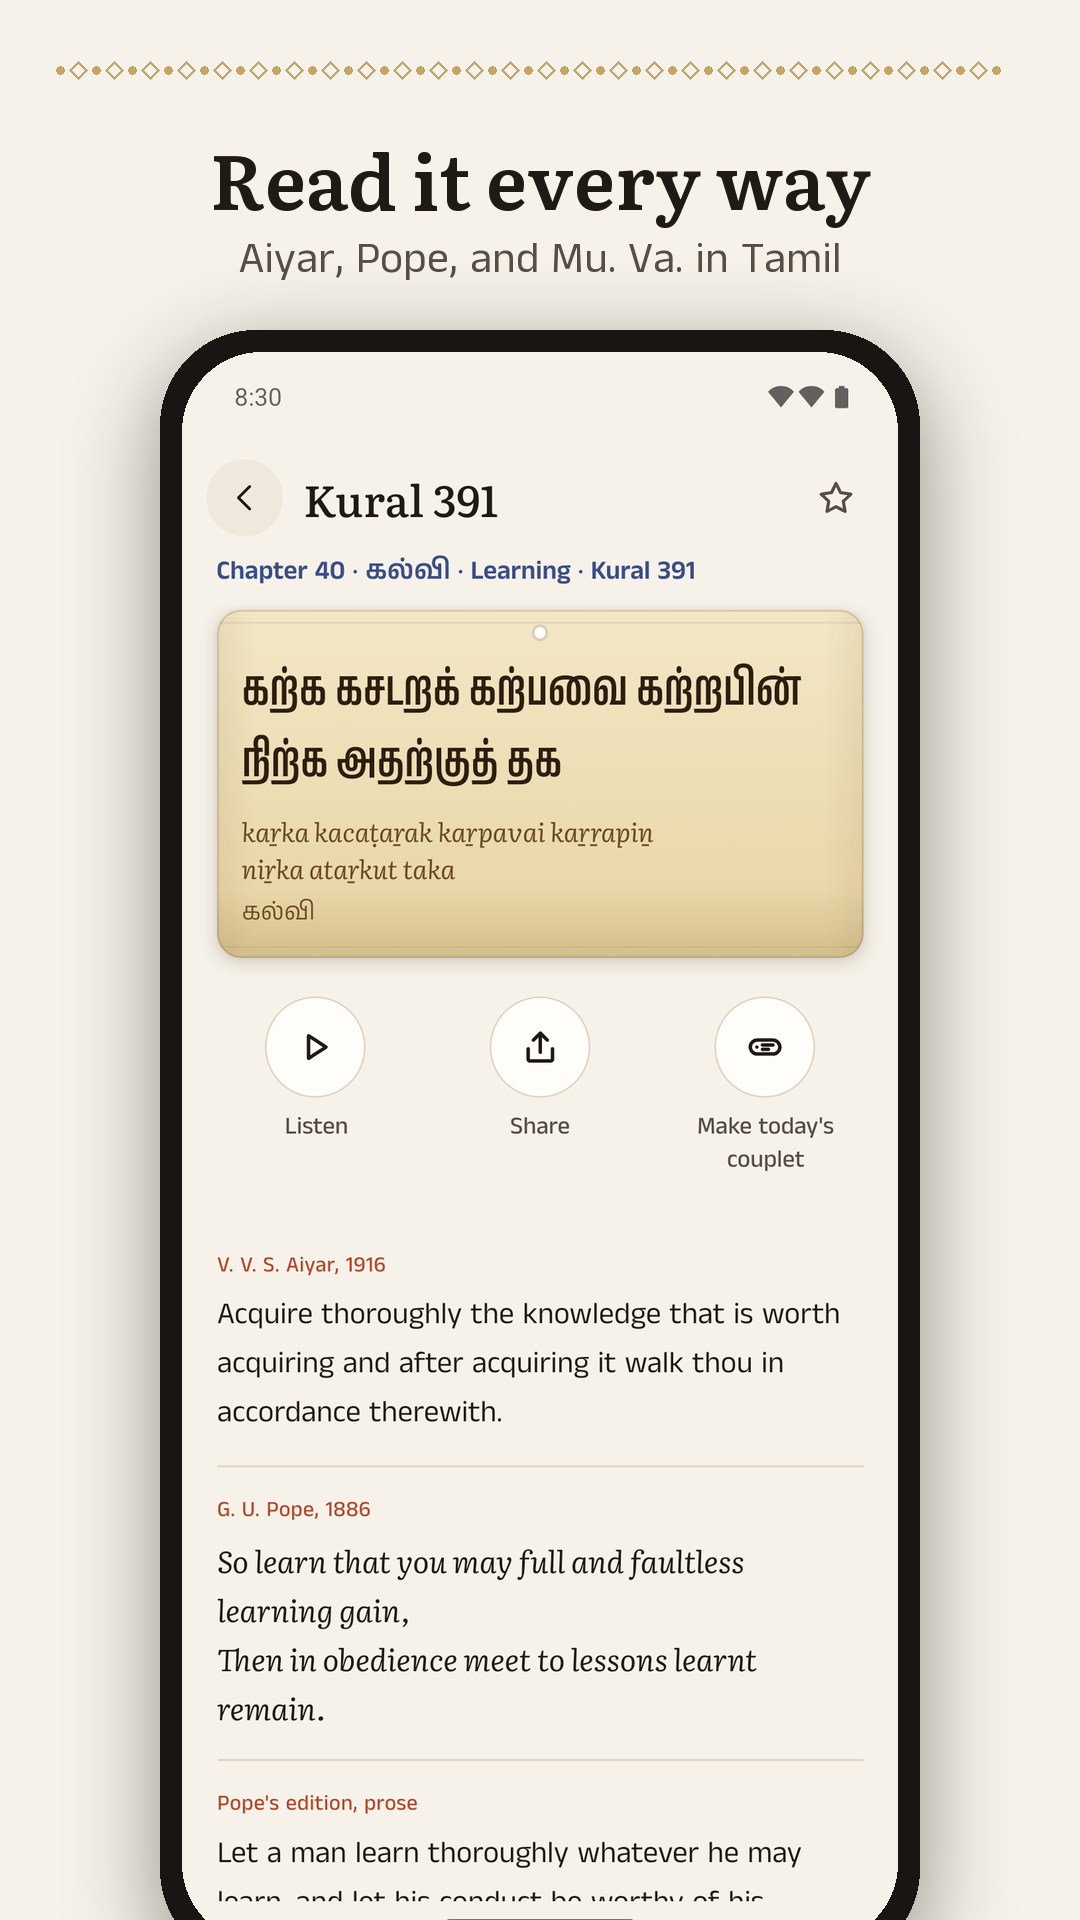
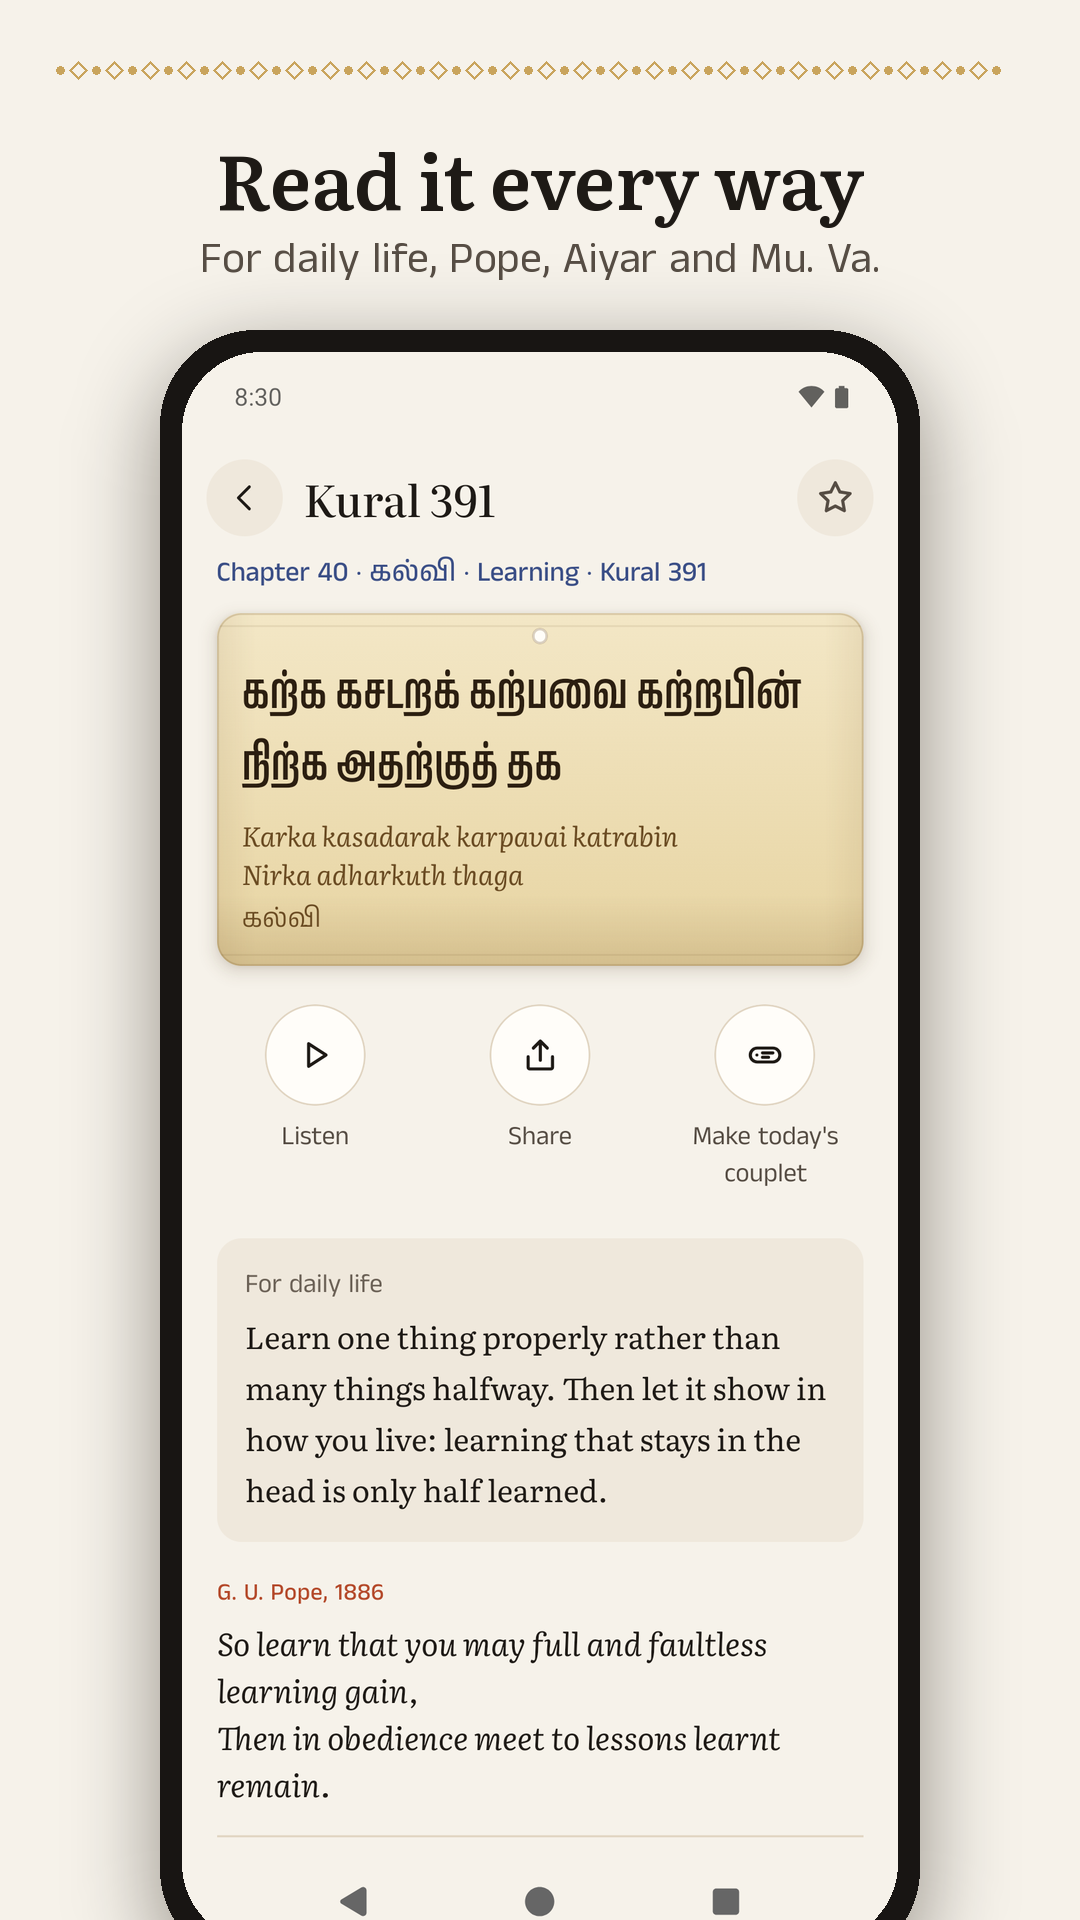
Store graphics: new screenshots and feature graphic from 1.0.9, as uploaded to Play

diff --git a/tools/make_store_graphics.py b/tools/make_store_graphics.py
@@ -26,10 +26,10 @@ GOLD = (201, 164, 92)
 
 SHOTS = [
     ("today.png", "One couplet a day", "On its palm leaf, in Tamil and English", False),
-    ("kural.png", "Read it every way", "Aiyar, Pope, and Mu. Va. in Tamil", False),
+    ("kural.png", "Read it every way", "For daily life, Pope, Aiyar and Mu. Va.", False),
     ("journal.png", "A private journal", "Feelings, photos, voice notes, places", False),
     ("journey.png", "A thread, not a streak", "Rest days, seals and 133 chapters", False),
-    ("today-night.png", "Day and night", "Ivory or Midnight, by the hour", True),
+    ("today-night.png", "Day and night", "Ivory or Midnight, with your phone", True),
     ("share.png", "Share a couplet", "Seven looks from Tamil life", True),
 ]
 
